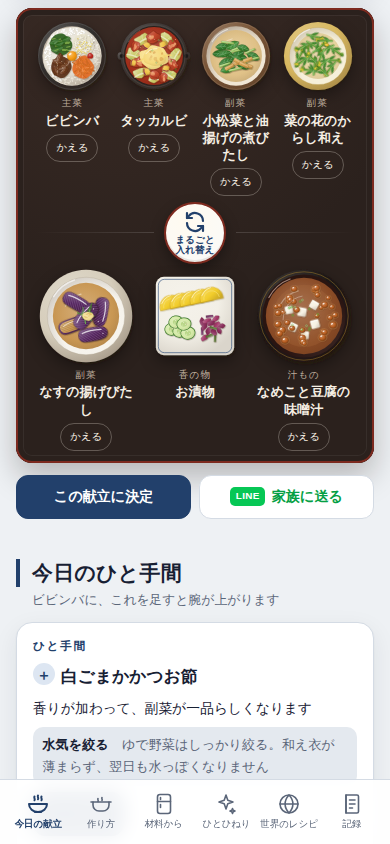
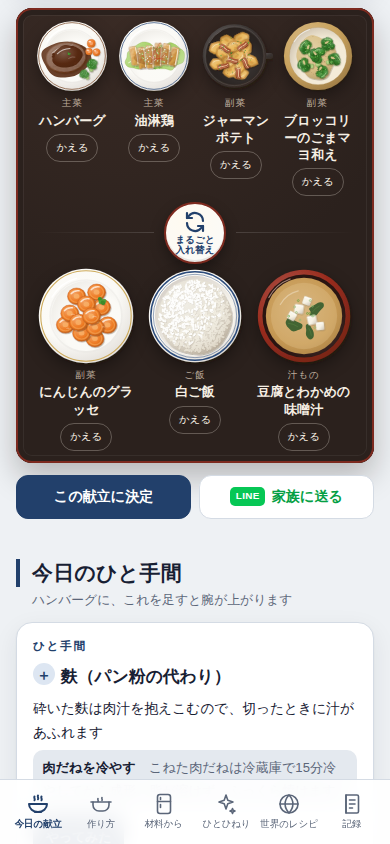
課金まわりの表示を直した（テストの報告）
- お試し中に解約した人の設定に「○日まで使えます（更新しません）」と出す
- お試しの終わる日を、端末の時間帯の日付で出す（アメリカ大陸で1日遅れて出ていた）
- 以前に登録したことがある・お試しの対象か確かめられない人には「1か月無料」を出さない
- 解約の期限は、お試しが終わる24時間前の日付と時刻で出す
- お知らせの時間に19時を足す。浮かぶタイマーの幅の上限

Claude-Session: https://claude.ai/code/session_019mhum2xsvshQ35w91Npja8

diff --git a/gohancho/index.html b/gohancho/index.html
@@ -284,7 +284,7 @@ nav.tabs button[aria-selected="true"] svg{stroke-width:2}
 .confirm{background:var(--surface-2);border-radius:var(--r);padding:12px;display:flex;flex-direction:column;gap:8px}
 .toast{position:fixed;left:16px;right:16px;margin-inline:auto;width:max-content;bottom:calc(86px + env(safe-area-inset-bottom,0px));z-index:60;background:var(--ink);color:var(--bg);padding:.55rem 1.1rem;border-radius:999px;font-size:.86rem;box-shadow:var(--shadow);max-width:calc(100% - 32px);text-align:center}   /* 左右を決めて中央に置く（left:50% だと幅が画面の半分に縮む） */
 .toast .btn{margin-inline-start:8px;min-height:36px;vertical-align:middle}
-.timer-float{position:fixed;inset-inline-end:12px;bottom:calc(140px + env(safe-area-inset-bottom,0px));z-index:55;background:var(--accent);color:var(--accent-ink);border:0;border-radius:999px;padding:.5rem .9rem;min-height:44px;font-size:.85rem;font-weight:600;box-shadow:var(--shadow);font-variant-numeric:tabular-nums}
+.timer-float{position:fixed;inset-inline-end:12px;max-width:calc(100% - 24px);overflow:hidden;text-overflow:ellipsis;white-space:nowrap;bottom:calc(140px + env(safe-area-inset-bottom,0px));z-index:55;background:var(--accent);color:var(--accent-ink);border:0;border-radius:999px;padding:.5rem .9rem;min-height:44px;font-size:.85rem;font-weight:600;box-shadow:var(--shadow);font-variant-numeric:tabular-nums}
 .timer-float.ring{background:var(--yolk);color:#231800}
 .muted{color:var(--muted)}
 .small{font-size:.8rem}
@@ -2678,12 +2678,14 @@ function rcInit(){
     if (!P || !PLAN.revenueCatApiKey) return null;
     return rcReady || (rcReady = P.configure({apiKey: PLAN.revenueCatApiKey}).then(() => P));
 }
+// RevenueCat の日時（UTC）を、端末の時間帯の日付にする（アメリカ大陸で1日遅れて表示されないように）
+function localYmd(iso){ const d = new Date(iso); return isNaN(d) ? String(iso).slice(0, 10) : ymd(d); }
 function applyCustomerInfo(ci){
     const ent = ci && ci.entitlements && ci.entitlements.active && ci.entitlements.active[PLAN.entitlement];
     const since = ent && ent.originalPurchaseDate ? String(ent.originalPurchaseDate).slice(0, 10) : ((S.pro && S.pro.since) || null);
     // App Store のお試し中なら終わる日を覚えておき、3日前に知らせる
-    const trialEnd = ent && /TRIAL|INTRO/i.test(String(ent.periodType || '')) && ent.expirationDate ? String(ent.expirationDate).slice(0, 10) : null;
-    S.pro = {active: !!ent, since, checked: Date.now(), trialEnd, expires: ent && ent.expirationDate ? String(ent.expirationDate).slice(0, 10) : null, willRenew: ent ? ent.willRenew !== false : null}; save(); render();
+    const trialEnd = ent && /TRIAL|INTRO/i.test(String(ent.periodType || '')) && ent.expirationDate ? localYmd(ent.expirationDate) : null;
+    S.pro = {active: !!ent, since, checked: Date.now(), trialEnd, expires: ent && ent.expirationDate ? localYmd(ent.expirationDate) : null, willRenew: ent ? ent.willRenew !== false : null}; save(); render();
     scheduleTrialReminder();
     return !!ent;
 }
@@ -2727,8 +2729,9 @@ async function loadStorePrices(){
             const ids = PLAN.prices.map(p => p.id);
             const r = await P.checkTrialOrIntroductoryPriceEligibility({productIdentifiers: ids});
             const st = ids.map(id => r && r[id] && r[id].status);   // 2 = 使える, 1 = 使えない, 3 = オファーなし, 0 = 不明
-            if (st.length && st.every(v => v === 1 || v === 3)) introEligible = false;
-        }
+            // 「使える」と確かめられたときだけお試しを出す（不明のまま「無料」と出して、すぐ課金されることがないように）
+            if (!st.length || !st.some(v => v === 2)) introEligible = false;
+        }else if (S.pro && S.pro.since) introEligible = false;
         introChecked = true; rerender();
     }catch(e){ if (storeState !== 'ok') storeState = 'fail'; introChecked = true; }
     if (introLoading){ introLoading = false; rerender(); } else rerender();
@@ -2738,6 +2741,12 @@ let storeState = 'idle', introChecked = false;
 function storeReady(){ return !purchasesPlugin() || storeState === 'ok'; }
 // これから始めるお試しの終わる日（App Store のお試しの長さから）と、そのあとの月額
 function introEndYmd(){ const o = introOffer || {unit:'month', n:1}; const d = parseYmd(TODAY); if (o.unit === 'day') d.setDate(d.getDate() + o.n); else d.setMonth(d.getMonth() + o.n); return ymd(d); }
+// 解約の期限: お試しが終わる時刻の24時間前（自動更新は24時間前までの解約が必要）。日付と時刻で出す
+function introCancelBy(){
+    const o = introOffer || {unit:'month', n:1}, d = new Date(); if (o.unit === 'day') d.setDate(d.getDate() + o.n); else d.setMonth(d.getMonth() + o.n);
+    d.setHours(d.getHours() - 24);
+    return jpDate(ymd(d)) + ' ' + String(d.getHours()).padStart(2, '0') + ':' + String(d.getMinutes()).padStart(2, '0');
+}
 function introDays(){ return daysBetween(TODAY, introEndYmd()); }
 function monthlyPrice(){ return priceLabel(PLAN.prices[0]) || ''; }
 // お試しの流れ（今日 → 終わる3日前にお知らせ → 終わる日から月額）
@@ -2903,7 +2912,7 @@ function renderSheet(){
             ${sheet.reason === 'monitor' ? `<div class="row">${monitorCanSend() ? `<button class="btn primary" data-act="monitor-send">${esc(t('感想・改善点を送る'))}</button>` : `<span class="small muted">${esc(t('今週の分は受け取りました。ありがとうございます。'))}</span>`}</div>` : ''}
             <ul class="pw-list">${(sheet.reason === 'start' ? [0, 1, 4, 3].map(i => PLAN.benefits[i]) : PLAN.benefits).map(b => `<li>${esc(b)}</li>`).join('')}</ul>
             ${PLAN.billingEnabled ? `
-                ${startOffer ? `<p class="pw-free">${esc(t('{date}までに解約すれば料金はかかりません。いつでも解約できます。', {date:jpDate(addDays(introEndYmd(), -1))}))}</p>` : ''}
+                ${startOffer ? `<p class="pw-free">${esc(t('{date}までに解約すれば料金はかかりません。いつでも解約できます。', {date:introCancelBy()}))}</p>` : ''}
                 ${!priced ? `<div class="note"><span>${esc(storeState === 'fail' ? t('価格を読み込めませんでした。電波のあるところでもう一度お試しください') : t('App Store の価格を読み込んでいます…'))}</span>${storeState === 'fail' ? `<button class="btn sm" data-act="store-retry">${esc(t('もう一度読みこむ'))}</button>` : ''}</div>` : `<div class="pw-prices">${[...PLAN.prices, ...(loyalEligible() ? [PLAN.loyalty] : [])].map(p => { const note = priceNote(p); return `<button class="pw-price${note?' best':''}${p.per === '月' && PLAN.trialMode === 'store' && !isSubscribed() ? ' cta' : ''}" data-act="buy" data-id="${esc(p.id)}"><span class="l">${esc(startOffer && p.per === '月' ? t('{trial}ではじめる', {trial:introShort()}) : p.label)}</span>${priceLabel(p) ? `<span class="p">${esc(priceLabel(p))}</span>` : ''}${note?`<span class="n">${esc(note)}</span>`:''}</button>`; }).join('')}</div>`}
                 ${!native && PLAN.webCheckoutUrl ? `<a class="btn primary" href="${esc(PLAN.webCheckoutUrl)}" target="_blank" rel="noopener">${esc(t('Web で購入する'))}</a>` : ''}
                 <button class="btn sm ghost" data-act="restore">${esc(t('購入を復元'))}</button>
@@ -3312,7 +3321,7 @@ function viewSettings(){
         <div class="set-group">
             <div class="set-title">${esc(PLAN.name)}</div>
             ${PLAN.billingEnabled
-                ? (isSubscribed() ? `<div class="note"><span>${esc(t('{plan}をご利用中です。ありがとうございます。', {plan:PLAN.name}))}${S.pro && S.pro.trialEnd ? '<br>' + esc(t('無料期間中：{date}から{price}', {date:jpDate(S.pro.trialEnd), price:monthlyPrice() || t('月額料金')})) : S.pro && S.pro.expires && S.pro.willRenew !== false ? '<br>' + esc(t('次の更新：{date}', {date:jpDate(S.pro.expires)})) : ''}</span>${isNative() ? `<button class="btn sm" data-act="manage-sub">${esc(t('プランの管理・解約'))}</button>` : ''}</div>`
+                ? (isSubscribed() ? `<div class="note"><span>${esc(t('{plan}をご利用中です。ありがとうございます。', {plan:PLAN.name}))}${S.pro && S.pro.willRenew === false && S.pro.expires ? '<br>' + esc(t('{date}まで使えます（更新しません）', {date:jpDate(S.pro.expires)})) : S.pro && S.pro.trialEnd ? '<br>' + esc(t('無料期間中：{date}から{price}', {date:jpDate(S.pro.trialEnd), price:monthlyPrice() || t('月額料金')})) : S.pro && S.pro.expires ? '<br>' + esc(t('次の更新：{date}', {date:jpDate(S.pro.expires)})) : ''}</span>${isNative() ? `<button class="btn sm" data-act="manage-sub">${esc(t('プランの管理・解約'))}</button>` : ''}</div>`
                   : trialActive() ? `<div class="note"><span>${esc(t('お試し期間中です（あと{n}日）。すべての機能が使えます。', {n:trialDaysLeft()}))}</span><button class="btn sm" data-act="paywall">${esc(t('プラスの内容'))}</button></div>`
                             : `<button class="btn primary" data-act="paywall">${esc(t('{plan}を見る', {plan:PLAN.name}))}</button>`)
                 : `<div class="note"><span>${esc(t('いまは無料公開中です。すべての機能をお使いいただけます。'))}</span><button class="btn sm" data-act="paywall">${esc(t('プラスの内容'))}</button></div>`}
@@ -3587,7 +3596,7 @@ function reminderHtml(){
     if (!isNative()) return `<p class="small muted" style="margin:0">${esc(t('毎日のお知らせ（献立を決める時間の通知）は iPhone アプリ版で使えます。'))}</p>`;
     const cur = S.settings.remind;
     return `<div class="field"><label>${esc(t('毎日のお知らせ'))}</label>
-        <div class="chips">${[['off',t('なし')],[15,hourLabel(15)],[16,hourLabel(16)],[17,hourLabel(17)],[18,hourLabel(18)]].map(([v,l]) => `<button class="chip" data-act="remind" data-v="${v}" aria-pressed="${v==='off' ? !cur : cur===v}">${esc(l)}</button>`).join('')}</div>
+        <div class="chips">${[['off',t('なし')],[15,hourLabel(15)],[16,hourLabel(16)],[17,hourLabel(17)],[18,hourLabel(18)],[19,hourLabel(19)]].map(([v,l]) => `<button class="chip" data-act="remind" data-v="${v}" aria-pressed="${v==='off' ? !cur : cur===v}">${esc(l)}</button>`).join('')}</div>
         <span class="small muted">${esc(t('献立を決める時間に、端末の通知でお知らせします。'))}</span></div>`;
 }
 

diff --git a/gohancho/i18n/hi.js b/gohancho/i18n/hi.js
@@ -687,4 +687,5 @@ GOHAN_I18N('hi', {
     "いまの国": "मौजूदा देश",
     "App Store の価格を読み込んでいます…": "App Store की कीमत लोड हो रही है…",
     "価格を読み込めませんでした。電波のあるところでもう一度お試しください": "कीमत लोड नहीं हो सकी। इंटरनेट मिलने पर फिर कोशिश करें।",
+    "{date}まで使えます（更新しません）": "{date} तक सक्रिय (नवीनीकरण नहीं होगा)",
 });

diff --git a/gohancho/i18n/th.js b/gohancho/i18n/th.js
@@ -687,4 +687,5 @@ GOHAN_I18N('th', {
     "いまの国": "ประเทศปัจจุบัน",
     "App Store の価格を読み込んでいます…": "กำลังโหลดราคาจาก App Store…",
     "価格を読み込めませんでした。電波のあるところでもう一度お試しください": "โหลดราคาไม่ได้ ลองใหม่อีกครั้งเมื่อมีอินเทอร์เน็ต",
+    "{date}まで使えます（更新しません）": "ใช้ได้ถึง {date} (ไม่ต่ออายุ)",
 });

diff --git a/gohancho/i18n/ar.js b/gohancho/i18n/ar.js
@@ -687,4 +687,5 @@ GOHAN_I18N('ar', {
     "いまの国": "البلد الحالي",
     "App Store の価格を読み込んでいます…": "جارٍ تحميل سعر App Store…",
     "価格を読み込めませんでした。電波のあるところでもう一度お試しください": "تعذّر تحميل السعر. حاولي مرة أخرى عند توفر الإنترنت.",
+    "{date}まで使えます（更新しません）": "نشط حتى {date} (لن يتجدد)",
 });

diff --git a/gohancho/i18n/ko.js b/gohancho/i18n/ko.js
@@ -687,4 +687,5 @@ GOHAN_I18N('ko', {
     "いまの国": "현재 나라",
     "App Store の価格を読み込んでいます…": "App Store 가격을 불러오는 중…",
     "価格を読み込めませんでした。電波のあるところでもう一度お試しください": "가격을 불러오지 못했어요. 인터넷이 될 때 다시 시도해 주세요.",
+    "{date}まで使えます（更新しません）": "{date}까지 이용할 수 있어요 (갱신 안 함)",
 });

diff --git a/gohancho/i18n/de.js b/gohancho/i18n/de.js
@@ -687,4 +687,5 @@ GOHAN_I18N('de', {
     "いまの国": "aktuell",
     "App Store の価格を読み込んでいます…": "App-Store-Preis wird geladen …",
     "価格を読み込めませんでした。電波のあるところでもう一度お試しください": "Preis konnte nicht geladen werden. Bitte versuche es mit Internetverbindung erneut.",
+    "{date}まで使えます（更新しません）": "Aktiv bis {date} (keine Verlängerung)",
 });

diff --git a/gohancho/i18n/vi.js b/gohancho/i18n/vi.js
@@ -687,4 +687,5 @@ GOHAN_I18N('vi', {
     "いまの国": "hiện tại",
     "App Store の価格を読み込んでいます…": "Đang tải giá trên App Store…",
     "価格を読み込めませんでした。電波のあるところでもう一度お試しください": "Không tải được giá. Hãy thử lại khi có mạng.",
+    "{date}まで使えます（更新しません）": "Dùng được đến {date} (không gia hạn)",
 });

diff --git a/gohancho/i18n/fil.js b/gohancho/i18n/fil.js
@@ -687,4 +687,5 @@ GOHAN_I18N('fil', {
     "いまの国": "kasalukuyan",
     "App Store の価格を読み込んでいます…": "Nilo-load ang presyo sa App Store…",
     "価格を読み込めませんでした。電波のあるところでもう一度お試しください": "Hindi na-load ang presyo. Subukan ulit kapag may internet.",
+    "{date}まで使えます（更新しません）": "Aktibo hanggang {date} (hindi mare-renew)",
 });

diff --git a/gohancho/i18n/es.js b/gohancho/i18n/es.js
@@ -687,4 +687,5 @@ GOHAN_I18N('es', {
     "いまの国": "actual",
     "App Store の価格を読み込んでいます…": "Cargando el precio de la App Store…",
     "価格を読み込めませんでした。電波のあるところでもう一度お試しください": "No se pudo cargar el precio. Inténtalo de nuevo con conexión.",
+    "{date}まで使えます（更新しません）": "Activo hasta el {date} (no se renovará)",
 });

diff --git a/gohancho/i18n/it.js b/gohancho/i18n/it.js
@@ -687,4 +687,5 @@ GOHAN_I18N('it', {
     "いまの国": "attuale",
     "App Store の価格を読み込んでいます…": "Caricamento del prezzo dell'App Store…",
     "価格を読み込めませんでした。電波のあるところでもう一度お試しください": "Impossibile caricare il prezzo. Riprova con una connessione.",
+    "{date}まで使えます（更新しません）": "Attivo fino al {date} (non si rinnova)",
 });

diff --git a/gohancho/i18n/pl.js b/gohancho/i18n/pl.js
@@ -687,4 +687,5 @@ GOHAN_I18N('pl', {
     "いまの国": "obecny",
     "App Store の価格を読み込んでいます…": "Wczytywanie ceny z App Store…",
     "価格を読み込めませんでした。電波のあるところでもう一度お試しください": "Nie udało się wczytać ceny. Spróbuj ponownie z dostępem do internetu.",
+    "{date}まで使えます（更新しません）": "Aktywne do {date} (bez odnowienia)",
 });

diff --git a/gohancho/i18n/tr.js b/gohancho/i18n/tr.js
@@ -687,4 +687,5 @@ GOHAN_I18N('tr', {
     "いまの国": "mevcut ülke",
     "App Store の価格を読み込んでいます…": "App Store fiyatı yükleniyor…",
     "価格を読み込めませんでした。電波のあるところでもう一度お試しください": "Fiyat yüklenemedi. İnternet varken tekrar deneyin.",
+    "{date}まで使えます（更新しません）": "{date} tarihine kadar geçerli (yenilenmeyecek)",
 });
